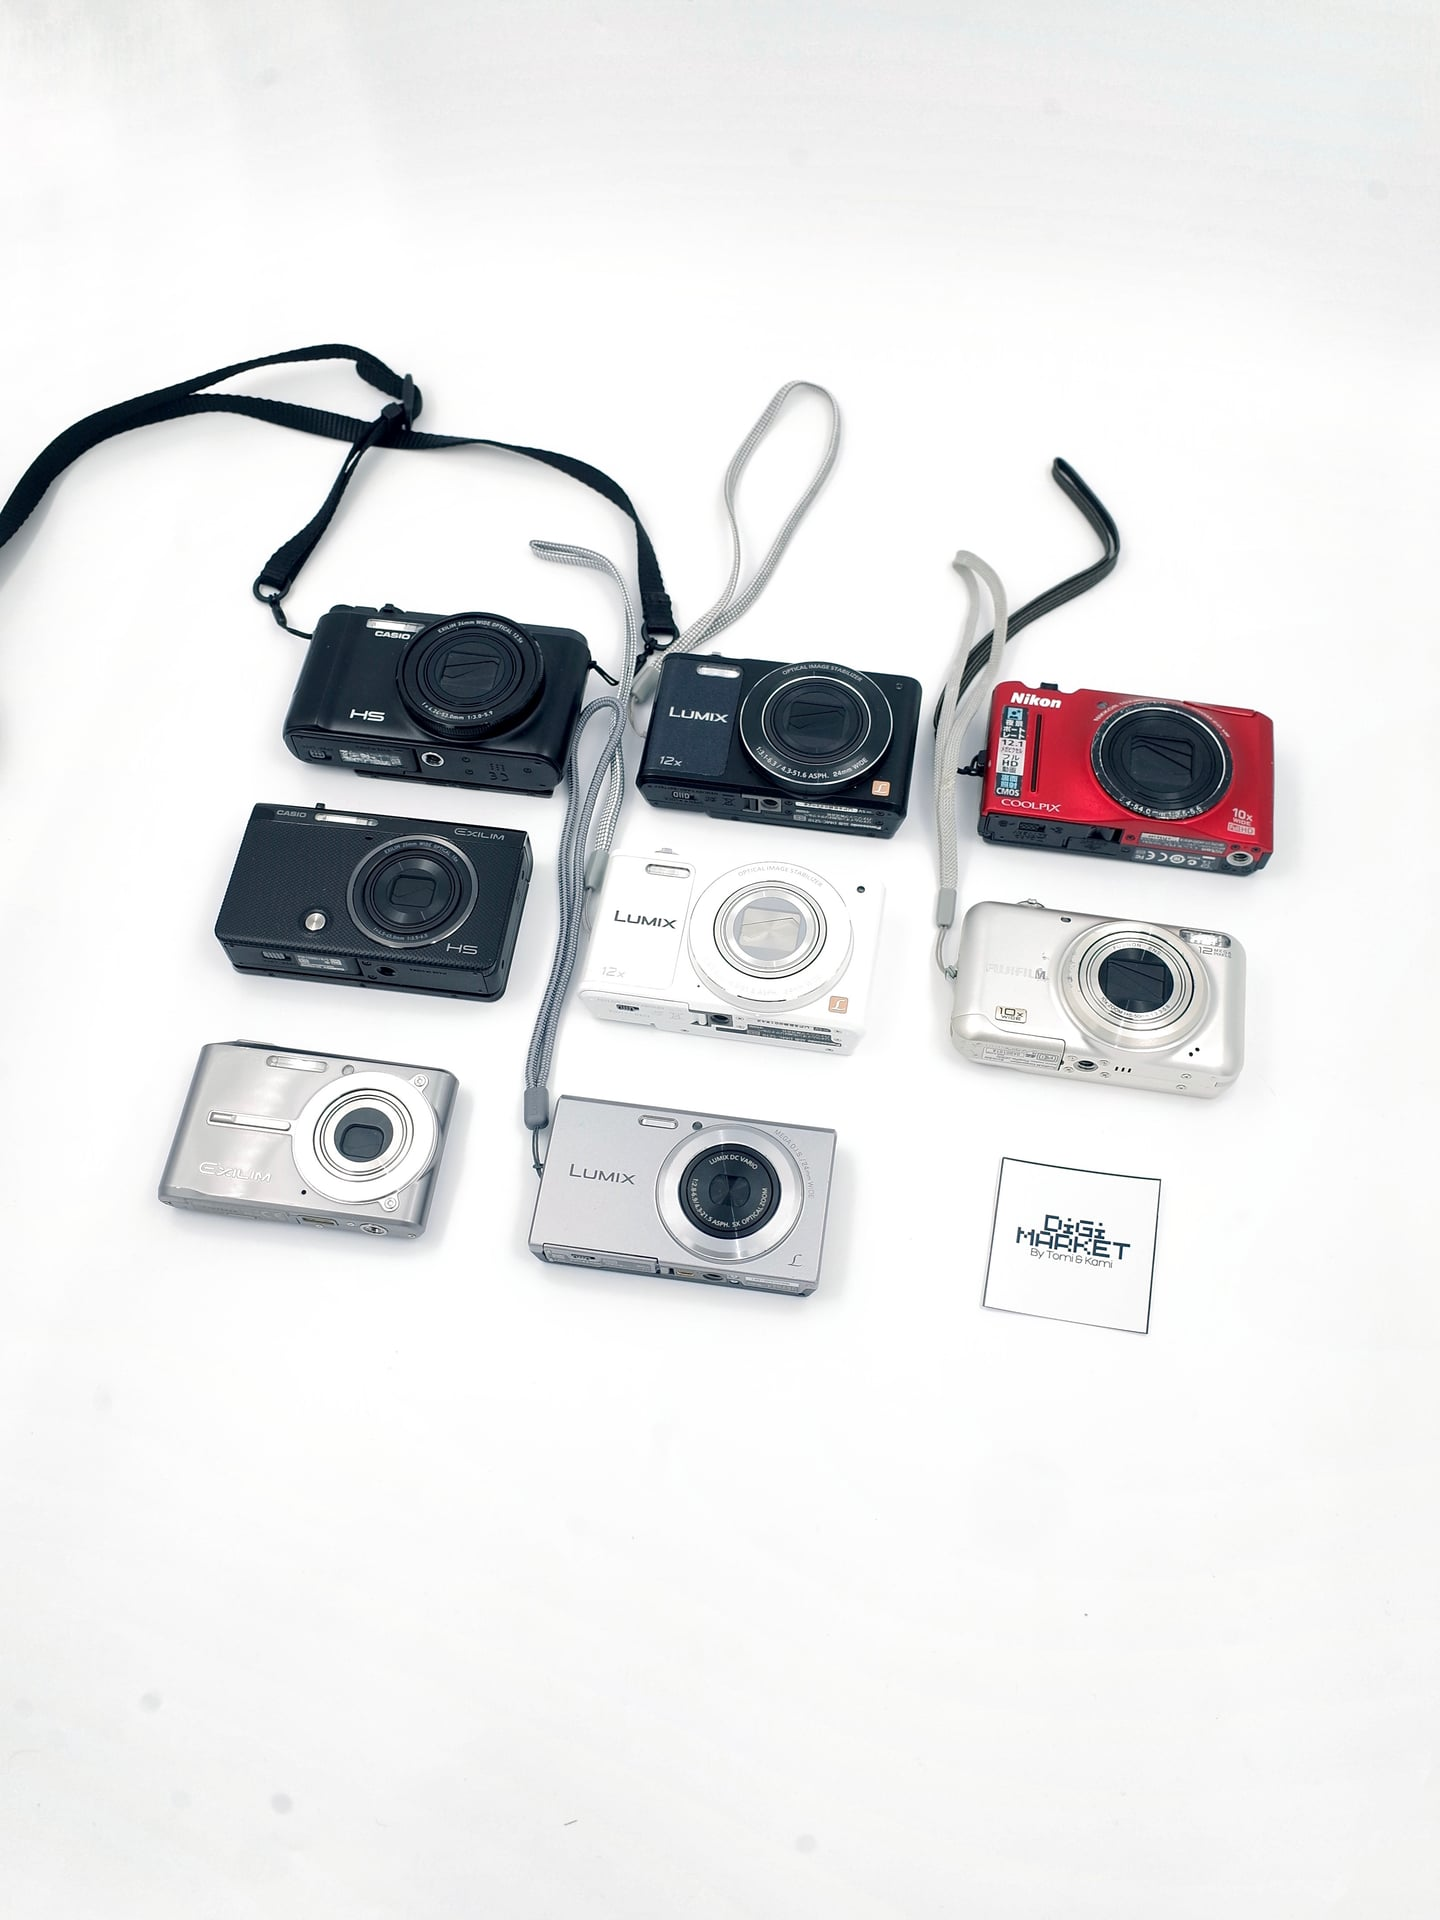
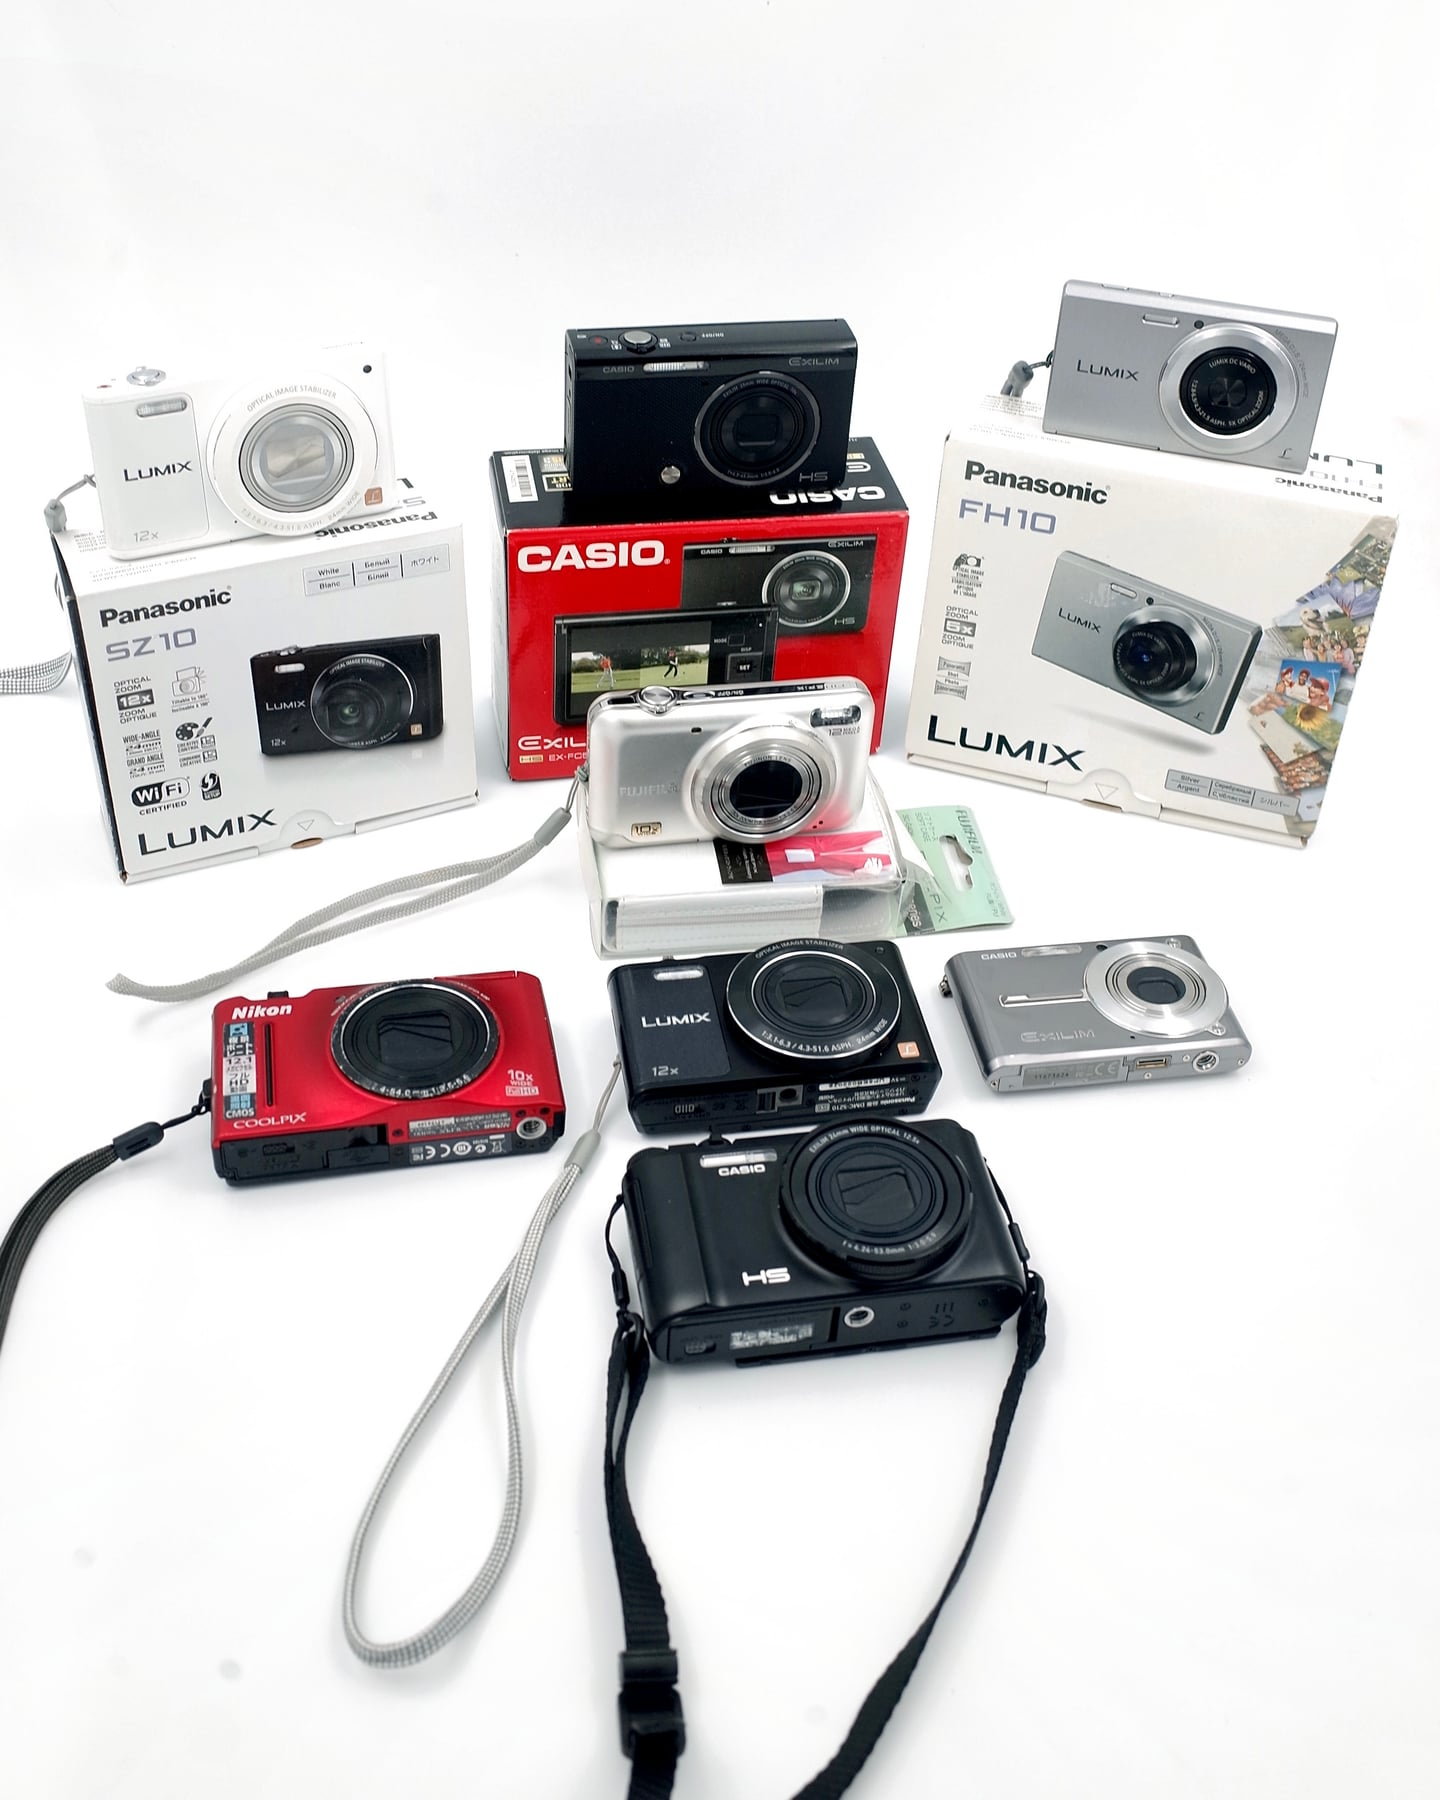
Swap hero photo for the boxed 28th Collection shot, add a real collection filter
Hero: use-this.jpg (the boxed flatlay) replaces the plain one, cropped in
tighter — the source had the camera cluster sitting in only the middle ~40%
of the frame vertically, so most of the "hero image" was empty white margin.

Catalog: replaced the per-card "28th Collection" ribbon with a real filter
chip next to the brand chips, sourced from units.badge the same way brand
chips are sourced from unit names — any badged unit auto-produces a working
chip with no code changes needed for future collections. The ribbon approach
was purely decorative; this one actually filters.

diff --git a/src/components/Catalog.tsx b/src/components/Catalog.tsx
@@ -77,20 +77,8 @@ function CameraCard({ item, onViewInfo }: { item: CatalogItem; onViewInfo: (item
           )}
           <div className="absolute inset-0 bg-gradient-to-t from-ink-900/25 via-transparent to-transparent opacity-0 transition-opacity duration-500 group-hover:opacity-100" />
 
-          {/* Collection/promo ribbon — its own row, top-right. When present, the badges
-              column below is pushed down a row (top-14 instead of top-4) so a long
-              "Best for" line starts fresh at the left edge instead of wrapping under it —
-              they used to share a row and the ribbon got painted over. */}
-          {item.badge && (
-            <span className="absolute right-4 top-4 rounded-full bg-flash-500 px-3 py-1.5 font-mono text-[10px] font-bold uppercase tracking-[0.14em] text-cream-50 shadow-lg shadow-flash-500/30">
-              {item.badge}
-            </span>
-          )}
-
           {/* Badges */}
-          <div
-            className={`absolute left-4 right-4 flex flex-col items-start gap-2 ${item.badge ? "top-14" : "top-4"}`}
-          >
+          <div className="absolute left-4 right-4 top-4 flex flex-col items-start gap-2">
             {item.bestFor && (
               <span className="rounded-xl bg-ink-900/70 px-2.5 py-1.5 text-[10px] leading-snug text-cream-100 backdrop-blur">
                 <span className="font-bold uppercase tracking-wide text-flash-400">Best for </span>
@@ -292,7 +280,7 @@ function getBrandBucket(name: string): string {
 // its own; Showcase's heading covers it.
 export function CatalogList({ products }: { products: ProductsState }) {
   const [active, setActive] = useState<"camcorders" | "digicams">("camcorders");
-  const [brandFilter, setBrandFilter] = useState<string>("all");
+  const [catalogFilter, setCatalogFilter] = useState<string>("all");
   const [infoItem, setInfoItem] = useState<CatalogItem | null>(null);
 
   const camcorders = products.status === "ready" ? products.data.camcorders : [];
@@ -301,14 +289,24 @@ export function CatalogList({ products }: { products: ProductsState }) {
   const digicamBrands = [...KNOWN_DIGICAM_BRANDS, "Others"].filter((b) =>
     digicams.some((item) => getBrandBucket(item.name) === b)
   );
+  // Collection chips (e.g. "28th Collection") come straight from units.badge — same
+  // self-adapting pattern as brands: a chip only appears once a unit with that badge
+  // actually exists, so future collections show up here with zero code changes.
+  const digicamCollections = [...new Set(digicams.map((item) => item.badge).filter((b): b is string => Boolean(b)))];
   const filteredDigicams =
-    brandFilter === "all" ? digicams : digicams.filter((item) => getBrandBucket(item.name) === brandFilter);
+    catalogFilter === "all"
+      ? digicams
+      : digicams.filter((item) =>
+          digicamCollections.includes(catalogFilter)
+            ? item.badge === catalogFilter
+            : getBrandBucket(item.name) === catalogFilter
+        );
 
   const activeItems = active === "camcorders" ? camcorders : filteredDigicams;
 
   const selectTab = (tab: "camcorders" | "digicams") => {
     setActive(tab);
-    setBrandFilter("all");
+    setCatalogFilter("all");
   };
 
   return (
@@ -335,20 +333,20 @@ export function CatalogList({ products }: { products: ProductsState }) {
         </Reveal>
       </div>
 
-      {active === "digicams" && digicamBrands.length > 0 && (
+      {active === "digicams" && (digicamCollections.length > 0 || digicamBrands.length > 0) && (
         <Reveal delay={0.2} className="mt-3 flex flex-wrap gap-1.5">
-          {["all", ...digicamBrands].map((b) => (
+          {["all", ...digicamCollections, ...digicamBrands].map((f) => (
             <button
-              key={b}
+              key={f}
               type="button"
-              onClick={() => setBrandFilter(b)}
+              onClick={() => setCatalogFilter(f)}
               className={`rounded-full border px-3 py-1.5 font-mono text-[10px] font-bold uppercase tracking-[0.12em] transition-colors duration-300 ${
-                brandFilter === b
+                catalogFilter === f
                   ? "border-flash-500 bg-flash-500 text-cream-50"
                   : "border-ink-900/10 text-ink-400 hover:border-flash-500 hover:text-flash-500"
               }`}
             >
-              {b === "all" ? "All" : b}
+              {f === "all" ? "All" : f}
             </button>
           ))}
         </Reveal>

diff --git a/src/components/Hero.tsx b/src/components/Hero.tsx
@@ -141,7 +141,7 @@ export default function Hero({ products }: { products: ProductsState }) {
           <div className="relative overflow-hidden rounded-[2.5rem] border border-ink-900/10 bg-cream-50 shadow-[0_40px_90px_-30px_rgba(27,23,18,0.45)]">
             <img
               src={heroCamera}
-              alt="Flatlay of the 28th Collection — eight vintage digital cameras styled by Digimarket_PH"
+              alt="Flatlay of the 28th Collection — eight vintage digital cameras with their original boxes, styled by Digimarket_PH"
               className="aspect-[4/5] w-full object-cover"
               width={880}
               height={1100}
